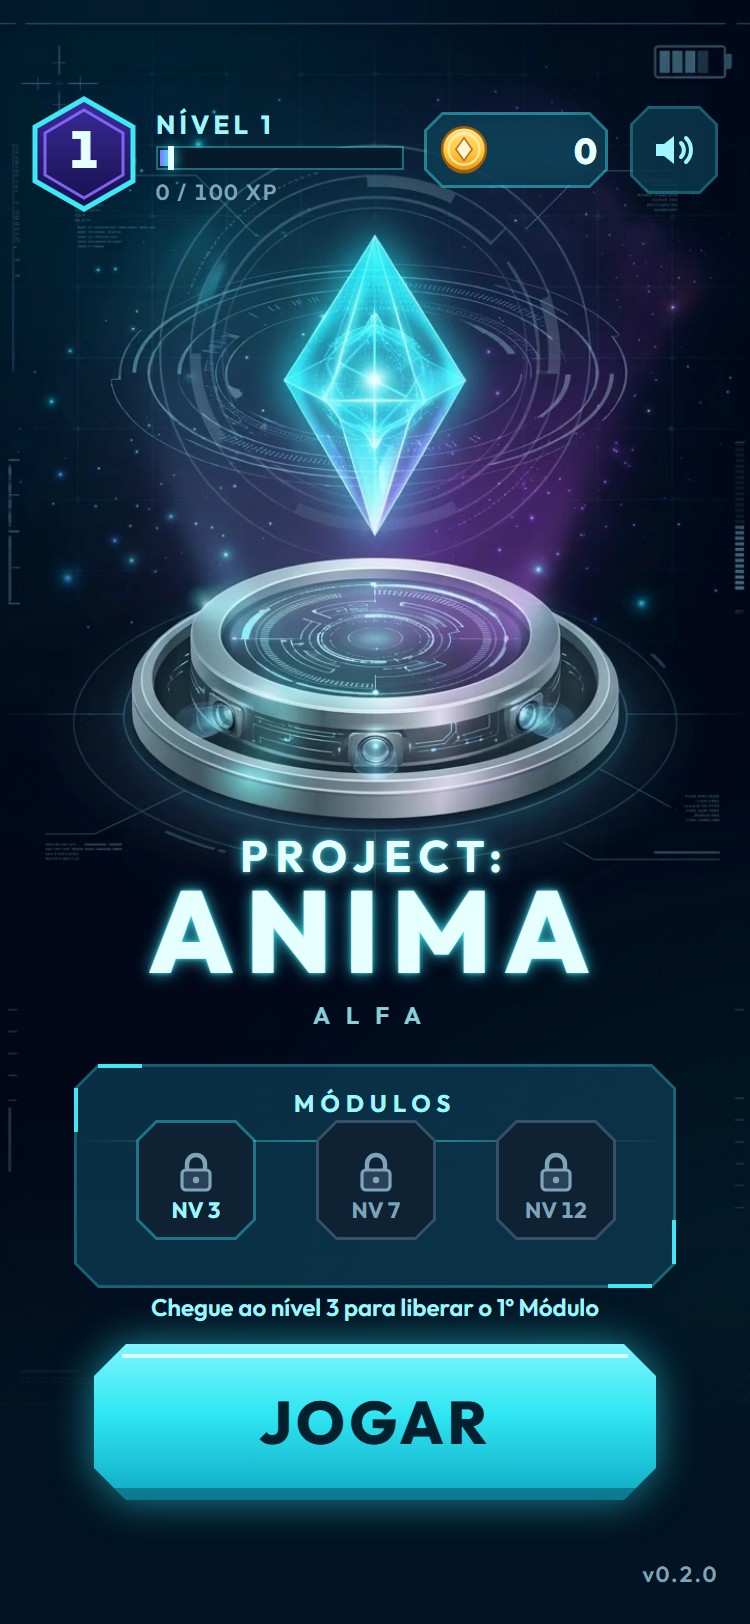
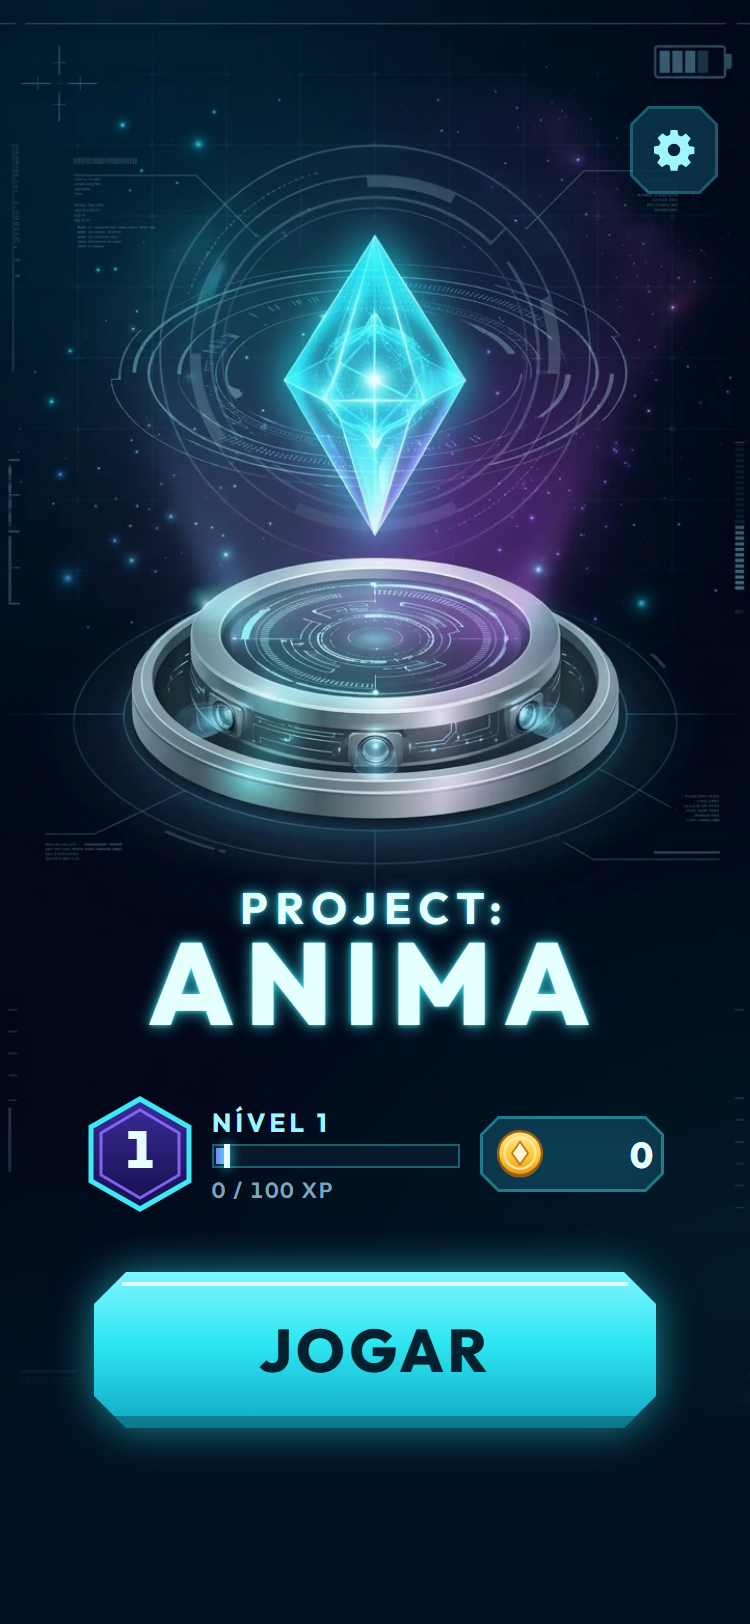
T-180 aprovada (mockups sem Módulos, engrenagem, sem dicas); T-184 revisada: XP só por monstros, derrota 70%, bônus do dia, níveis 1 a 30 (BRF-108, BRF-109)

diff --git a/assets/mockups/_src/mockup_holo.html b/assets/mockups/_src/mockup_holo.html
@@ -64,7 +64,7 @@ html,body{width:375px;height:812px;overflow:hidden;background:var(--bg);font-fam
     <symbol id="hex" viewBox="0 0 52 58"><polygon points="26,1.5 50.5,15.5 50.5,42.5 26,56.5 1.5,42.5 1.5,15.5" fill="url(#gHex)" stroke="#3FE8F5" stroke-width="2.5"/><polygon points="26,7 45.5,18.5 45.5,39.5 26,51 6.5,39.5 6.5,18.5" fill="none" stroke="#8A6CFF" stroke-width="1.5" opacity=".9"/></symbol>
     <symbol id="coin" viewBox="0 0 32 32"><circle cx="16" cy="17" r="13.5" fill="#9A5F0C"/><circle cx="16" cy="15.5" r="13.5" fill="url(#gCoin)" stroke="#9A5F0C" stroke-width="1.5"/><circle cx="16" cy="15.5" r="9.5" fill="none" stroke="#FFF1B8" stroke-width="1.4" opacity=".8"/><path d="M16 8.5 L21 15.5 L16 22.5 L11 15.5Z" fill="#FFF6D6" stroke="#B87410" stroke-width="1"/></symbol>
     <symbol id="xp" viewBox="0 0 32 32"><polygon points="16,2 28.5,9 28.5,23 16,30 3.5,23 3.5,9" fill="url(#gXp)" stroke="#B9A5FF" stroke-width="1.6"/><path d="M16 7 L21.5 16 L16 25 L10.5 16Z" fill="#3FE8F5"/><path d="M16 7 L16 25 L10.5 16Z" fill="#E6FFFF" opacity=".85"/></symbol>
-    <symbol id="spk" viewBox="0 0 24 24"><path d="M3 9h4l5-4v14l-5-4H3z" fill="#9FF6FF"/><path d="M15.5 8.5a5 5 0 0 1 0 7M18 6a8.5 8.5 0 0 1 0 12" fill="none" stroke="#9FF6FF" stroke-width="2" stroke-linecap="round"/></symbol>
+    <symbol id="gear" viewBox="0 0 24 24"><path d="M10.3 2h3.4l.5 2.6 1.6.7 2.2-1.5 2.4 2.4-1.5 2.2.7 1.6 2.6.5v3.4l-2.6.5-.7 1.6 1.5 2.2-2.4 2.4-2.2-1.5-1.6.7-.5 2.6h-3.4l-.5-2.6-1.6-.7-2.2 1.5-2.4-2.4 1.5-2.2-.7-1.6L2 13.7v-3.4l2.6-.5.7-1.6-1.5-2.2 2.4-2.4 2.2 1.5 1.6-.7z" fill="#9FF6FF"/><circle cx="12" cy="12" r="3.6" fill="#06223A" stroke="#9FF6FF" stroke-width="1"/></symbol>
     <symbol id="lock" viewBox="0 0 24 24"><path d="M7.5 11V8a4.5 4.5 0 0 1 9 0v3" fill="none" stroke="#7FA3B8" stroke-width="2.2"/><rect x="5" y="11" width="14" height="10" rx="2" fill="#2A4258" stroke="#7FA3B8" stroke-width="1.6"/><circle cx="12" cy="16" r="1.6" fill="#7FA3B8"/></symbol>
     <symbol id="unlock" viewBox="0 0 24 24"><path d="M7.5 11V7a4.5 4.5 0 0 1 9 0" fill="none" stroke="#3FE8F5" stroke-width="2.2"/><rect x="5" y="11" width="14" height="10" rx="2" fill="#0B4A5E" stroke="#3FE8F5" stroke-width="1.6"/><circle cx="12" cy="16" r="1.6" fill="#E6FFFF"/></symbol>
   </defs>
@@ -73,63 +73,41 @@ html,body{width:375px;height:812px;overflow:hidden;background:var(--bg);font-fam
 <!-- ============ MENU PRINCIPAL (conta nível 4) ============ -->
 <div class="screen" id="menu">
   <div class="bg" style="background-image:url(../../ui/title_bg_tech.webp)"></div>
-  <!-- topo: selo + XP | Moeda | som -->
-  
-  <svg class="abs" style="left:16px;top:48px" width="52" height="58"><use href="#hex"/></svg>
-  <div class="abs num" style="left:16px;top:58px;width:52px;text-align:center;font-weight:800;font-size:26px">4</div>
-  <div class="abs" style="left:78px;top:54px;font-weight:700;font-size:13px;letter-spacing:2px;color:var(--text2)">NÍVEL 4</div>
-  <div class="bar" style="left:78px;top:73px;width:124px"><div class="trk"></div><div class="fil" style="width:74px"></div></div>
-  <div class="abs small num" style="left:78px;top:89px">320 / 500 XP</div>
-  <div class="panel ch glow" style="left:212px;top:56px;width:92px;height:38px;--c:9px"><div class="fill ch" style="--c:8px"></div></div>
-  <svg class="abs" style="left:219px;top:62px" width="26" height="26"><use href="#coin"/></svg>
-  <div class="abs num" style="left:248px;top:64px;width:50px;text-align:right;font-weight:800;font-size:18px">1.250</div>
+  <!-- topo: só a engrenagem (sem ação no M2) -->
   <div class="panel ch" style="left:315px;top:53px;width:44px;height:44px;--c:9px"><div class="fill ch" style="--c:8px"></div></div>
-  <svg class="abs" style="left:325px;top:63px" width="24" height="24"><use href="#spk"/></svg>
-  <!-- logotipo -->
-  <div class="abs txt-glow" style="left:0;right:0;top:414px;text-align:center;font-weight:700;font-size:22px;letter-spacing:4px">PROJECT:</div>
-  <div class="abs txt-glow" style="left:0;right:0;top:436px;text-align:center;font-weight:800;font-size:58px;letter-spacing:6px;line-height:1">ANIMA</div>
-  <div class="abs" style="left:0;right:0;top:500px;text-align:center;font-weight:600;font-size:12px;letter-spacing:8px;color:var(--text2);opacity:.85">ALFA</div>
-  <!-- painel de Módulos -->
-  <div class="panel ch" style="left:37px;top:532px;width:301px;height:112px"><div class="fill ch"></div><div class="brk"></div><div class="scan" style="top:38px"></div>
-    <div class="hdr" style="top:12px">MÓDULOS</div></div>
-  <div class="slot" style="left:68px;top:560px"><div class="panel ch glow" style="inset:0;--c:10px"><div class="fill ch" style="--c:9px;background:rgba(10,60,84,.9)"></div></div>
-    <img src="../../ui/ui_icon_skill_meteor.png" class="abs" style="left:8px;top:8px;width:44px;height:44px"></div>
-  <div class="slot" style="left:158px;top:560px"><div class="panel ch" style="inset:0;--c:10px;background:var(--dis-line)"><div class="fill ch" style="--c:9px;background:var(--dis-fill)"></div></div>
-    <svg class="abs" style="left:18px;top:14px" width="24" height="24"><use href="#lock"/></svg><div class="abs num" style="left:0;right:0;top:38px;text-align:center;font-size:11px;font-weight:700;color:var(--muted)">NV 7</div></div>
-  <div class="slot" style="left:248px;top:560px"><div class="panel ch" style="inset:0;--c:10px;background:var(--dis-line)"><div class="fill ch" style="--c:9px;background:var(--dis-fill)"></div></div>
-    <svg class="abs" style="left:18px;top:14px" width="24" height="24"><use href="#lock"/></svg><div class="abs num" style="left:0;right:0;top:38px;text-align:center;font-size:11px;font-weight:700;color:var(--muted)">NV 12</div></div>
-  <!-- JOGAR -->
-  <div class="glow" style="position:absolute;left:47px;top:672px;width:281px;height:78px"><div class="btn primary ch" style="inset:0;--c:16px">JOGAR</div></div>
-  <div class="abs small num" style="right:16px;bottom:18px">v0.2.0</div>
+  <svg class="abs" style="left:325px;top:63px" width="24" height="24"><use href="#gear"/></svg>
+  <!-- bloco central no terço inferior: logotipo, nível/XP + Moeda, Jogar (sem Módulos, dica de slot, ALFA nem versão) -->
+  <div class="abs txt-glow" style="left:0;right:0;top:440px;text-align:center;font-weight:700;font-size:22px;letter-spacing:4px">PROJECT:</div>
+  <div class="abs txt-glow" style="left:0;right:0;top:462px;text-align:center;font-weight:800;font-size:58px;letter-spacing:6px;line-height:1">ANIMA</div>
+  <svg class="abs" style="left:44px;top:548px" width="52" height="58"><use href="#hex"/></svg>
+  <div class="abs num" style="left:44px;top:558px;width:52px;text-align:center;font-weight:800;font-size:26px">4</div>
+  <div class="abs" style="left:106px;top:553px;font-weight:700;font-size:13px;letter-spacing:2px;color:var(--text2)">NÍVEL 4</div>
+  <div class="bar" style="left:106px;top:572px;width:124px"><div class="trk"></div><div class="fil" style="width:74px"></div></div>
+  <div class="abs small num" style="left:106px;top:588px">320 / 500 XP</div>
+  <div class="panel ch glow" style="left:240px;top:558px;width:92px;height:38px;--c:9px"><div class="fill ch" style="--c:8px"></div></div>
+  <svg class="abs" style="left:247px;top:564px" width="26" height="26"><use href="#coin"/></svg>
+  <div class="abs num" style="left:276px;top:566px;width:50px;text-align:right;font-weight:800;font-size:18px">1.250</div>
+  <div class="glow" style="position:absolute;left:47px;top:636px;width:281px;height:78px"><div class="btn primary ch" style="inset:0;--c:16px">JOGAR</div></div>
 </div>
 
-<!-- ============ MENU PRINCIPAL (conta nível 1, sem Módulo) ============ -->
+<!-- ============ MENU PRINCIPAL (conta nível 1) ============ -->
 <div class="screen" id="menu_lvl1">
   <div class="bg" style="background-image:url(../../ui/title_bg_tech.webp)"></div>
-  <svg class="abs" style="left:16px;top:48px" width="52" height="58"><use href="#hex"/></svg>
-  <div class="abs num" style="left:16px;top:58px;width:52px;text-align:center;font-weight:800;font-size:26px">1</div>
-  <div class="abs" style="left:78px;top:54px;font-weight:700;font-size:13px;letter-spacing:2px;color:var(--text2)">NÍVEL 1</div>
-  <div class="bar" style="left:78px;top:73px;width:124px"><div class="trk"></div><div class="fil" style="width:6px"></div></div>
-  <div class="abs small num" style="left:78px;top:89px">0 / 100 XP</div>
-  <div class="panel ch glow" style="left:212px;top:56px;width:92px;height:38px;--c:9px"><div class="fill ch" style="--c:8px"></div></div>
-  <svg class="abs" style="left:219px;top:62px" width="26" height="26"><use href="#coin"/></svg>
-  <div class="abs num" style="left:248px;top:64px;width:50px;text-align:right;font-weight:800;font-size:18px">0</div>
+  <!-- topo: só a engrenagem (sem ação no M2) -->
   <div class="panel ch" style="left:315px;top:53px;width:44px;height:44px;--c:9px"><div class="fill ch" style="--c:8px"></div></div>
-  <svg class="abs" style="left:325px;top:63px" width="24" height="24"><use href="#spk"/></svg>
-  <div class="abs txt-glow" style="left:0;right:0;top:414px;text-align:center;font-weight:700;font-size:22px;letter-spacing:4px">PROJECT:</div>
-  <div class="abs txt-glow" style="left:0;right:0;top:436px;text-align:center;font-weight:800;font-size:58px;letter-spacing:6px;line-height:1">ANIMA</div>
-  <div class="abs" style="left:0;right:0;top:500px;text-align:center;font-weight:600;font-size:12px;letter-spacing:8px;color:var(--text2);opacity:.85">ALFA</div>
-  <div class="panel ch" style="left:37px;top:532px;width:301px;height:112px"><div class="fill ch"></div><div class="brk"></div><div class="scan" style="top:38px"></div>
-    <div class="hdr" style="top:12px">MÓDULOS</div></div>
-  <div class="slot" style="left:68px;top:560px"><div class="panel ch" style="inset:0;--c:10px;background:var(--line-dim)"><div class="fill ch" style="--c:9px;background:var(--dis-fill)"></div></div>
-    <svg class="abs" style="left:18px;top:14px" width="24" height="24"><use href="#lock"/></svg><div class="abs num" style="left:0;right:0;top:38px;text-align:center;font-size:11px;font-weight:700;color:var(--text2)">NV 3</div></div>
-  <div class="slot" style="left:158px;top:560px"><div class="panel ch" style="inset:0;--c:10px;background:var(--dis-line)"><div class="fill ch" style="--c:9px;background:var(--dis-fill)"></div></div>
-    <svg class="abs" style="left:18px;top:14px" width="24" height="24"><use href="#lock"/></svg><div class="abs num" style="left:0;right:0;top:38px;text-align:center;font-size:11px;font-weight:700;color:var(--muted)">NV 7</div></div>
-  <div class="slot" style="left:248px;top:560px"><div class="panel ch" style="inset:0;--c:10px;background:var(--dis-line)"><div class="fill ch" style="--c:9px;background:var(--dis-fill)"></div></div>
-    <svg class="abs" style="left:18px;top:14px" width="24" height="24"><use href="#lock"/></svg><div class="abs num" style="left:0;right:0;top:38px;text-align:center;font-size:11px;font-weight:700;color:var(--muted)">NV 12</div></div>
-  <div class="abs" style="left:37px;right:37px;top:646px;text-align:center;font-size:12px;font-weight:600;color:var(--text2)">Chegue ao nível 3 para liberar o 1º Módulo</div>
-  <div class="glow" style="position:absolute;left:47px;top:672px;width:281px;height:78px"><div class="btn primary ch" style="inset:0;--c:16px">JOGAR</div></div>
-  <div class="abs small num" style="right:16px;bottom:18px">v0.2.0</div>
+  <svg class="abs" style="left:325px;top:63px" width="24" height="24"><use href="#gear"/></svg>
+  <!-- bloco central no terço inferior: logotipo, nível/XP + Moeda, Jogar (sem Módulos, dica de slot, ALFA nem versão) -->
+  <div class="abs txt-glow" style="left:0;right:0;top:440px;text-align:center;font-weight:700;font-size:22px;letter-spacing:4px">PROJECT:</div>
+  <div class="abs txt-glow" style="left:0;right:0;top:462px;text-align:center;font-weight:800;font-size:58px;letter-spacing:6px;line-height:1">ANIMA</div>
+  <svg class="abs" style="left:44px;top:548px" width="52" height="58"><use href="#hex"/></svg>
+  <div class="abs num" style="left:44px;top:558px;width:52px;text-align:center;font-weight:800;font-size:26px">1</div>
+  <div class="abs" style="left:106px;top:553px;font-weight:700;font-size:13px;letter-spacing:2px;color:var(--text2)">NÍVEL 1</div>
+  <div class="bar" style="left:106px;top:572px;width:124px"><div class="trk"></div><div class="fil" style="width:6px"></div></div>
+  <div class="abs small num" style="left:106px;top:588px">0 / 100 XP</div>
+  <div class="panel ch glow" style="left:240px;top:558px;width:92px;height:38px;--c:9px"><div class="fill ch" style="--c:8px"></div></div>
+  <svg class="abs" style="left:247px;top:564px" width="26" height="26"><use href="#coin"/></svg>
+  <div class="abs num" style="left:276px;top:566px;width:50px;text-align:right;font-weight:800;font-size:18px">0</div>
+  <div class="glow" style="position:absolute;left:47px;top:636px;width:281px;height:78px"><div class="btn primary ch" style="inset:0;--c:16px">JOGAR</div></div>
 </div>
 
 <!-- ============ RESULTADO (vitória + subida de nível + slot 1) ============ -->

diff --git a/docs/arte.md b/docs/arte.md
@@ -177,8 +177,9 @@ Todas as peças da UI agora têm arte 9-patch em `assets/ui/` (`ui_pill_wave`, `
 Vale para o **menu principal e o Resultado do M2** (hangar no M3). A partida segue no cartoon claro (decisão 50). Base: as artes do dono (`title_bg_tech.webp`, `result_tech_bg.webp`): azul-marinho, brilhos ciano, roxo discreto, linhas finas de HUD.
 
 **Mockups** (375×812 @2x; fonte `assets/mockups/_src/mockup_holo.html`, gerar com `bash assets/mockups/_src/render.sh`; pasta fora do `.pck`):
-- [`mockup_holo_menu.png`](../assets/mockups/mockup_holo_menu.png): menu, conta nível 4, slot 1 com Módulo;
-- [`mockup_holo_menu_lvl1.png`](../assets/mockups/mockup_holo_menu_lvl1.png): conta nova (nível 1, 0 Moeda, sem Módulo, dica do nível 3);
+- [`mockup_holo_menu.png`](../assets/mockups/mockup_holo_menu.png): menu, conta nível 4: no topo só a engrenagem; no terço inferior, um bloco único (logotipo → linha "selo + nível/barra de XP | Moeda" → Jogar), sem espaço vazio entre logotipo e Jogar;
+- [`mockup_holo_menu_lvl1.png`](../assets/mockups/mockup_holo_menu_lvl1.png): conta nova (nível 1, 0 Moeda), mesmo layout;
+- **O menu principal não mostra Módulos** (BRF-109): nada de slots, ícones, lista nem dica de slot/desbloqueio; eles vivem no hangar (M3). Também sem "ALFA" e sem rótulo de versão solto. **Layout do menu (375×812):** "PROJECT:" em y 440 e "ANIMA" em 462; linha de nível/Moeda em y 548–606 (selo à esquerda em x 44, pílula da Moeda à direita até x 332, centrada); Jogar 281×78 em y 636 (folga ~22 px abaixo do bloco e ~98 px até a base). O bloco fica ancorado embaixo; a arte de fundo (cristal e plataforma) ocupa a metade de cima;
 - [`mockup_holo_result.png`](../assets/mockups/mockup_holo_result.png): vitória, XP e Moeda ganhos, nível 2 → 3, "Slot 1 liberado";
 - [`mockup_holo_parts.png`](../assets/mockups/mockup_holo_parts.png): estados dos botões, painel, selo, ícones, barra, raridades e paleta.
 
@@ -191,7 +192,7 @@ Vale para o **menu principal e o Resultado do M2** (hangar no M3). A partida seg
 | `holo_line` | `#3FE8F5` (100% / 38% `holo_line_dim`) | molduras, colchetes, varredura, ponta da barra | 12,5:1 no `holo_bg` |
 | `holo_text` | `#E6FFFF` | texto principal e números | 15,5:1 |
 | `holo_text2` | `#9FF6FF` | títulos de painel, rótulos | 13,2:1 |
-| `holo_muted` | `#7FA3B8` | legendas, "320 / 500 XP", versão | 6,0:1 |
+| `holo_muted` | `#7FA3B8` | legendas, "320 / 500 XP" | 6,0:1 |
 | `holo_violet` | `#8A6CFF` (claro `#B9A5FF`) | XP: início do degradê da barra, selo, rótulo "XP" | 7,6:1 (claro) |
 | `gold` | `#FFC93D` (claro `#FFE08A`) | Moeda, "VITÓRIA", aviso de desbloqueio | 10,5:1 |
 | `holo_ink` | `#03202E` | texto do botão primário (ciano) | 11:1 (6:1 pressionado) |
@@ -206,11 +207,12 @@ Vale para o **menu principal e o Resultado do M2** (hangar no M3). A partida seg
 - **Painel:** retângulo de **cantos chanfrados** (12 px a 1x), moldura `holo_line_dim` de 1,5 px, preenchimento `holo_panel` translúcido, **colchetes** `holo_line` de 22×2 px no canto superior esquerdo e inferior direito, título centrado em `holo_text2` com espaçamento 3 e linha de varredura abaixo.
 - **Botão primário** (Jogar, Continuar): ≥ 280×72, chanfro 16, degradê vertical `#7FF5FF` → `#2FE6F2` → `#0FA9C4`, filete branco a 75% no topo, base escura de 6 px, brilho externo ciano a 55%. Texto `holo_ink` 26–30 px. **Pressionado:** degradê um passo mais escuro, desce 3 px, brilho cai para 4 px.
 - **Botão secundário:** moldura ciano 2 px + interior `holo_panel` a 90%, texto `holo_text` 17 px. **Pressionado:** moldura `holo_text2` e interior `#0E5A70`, desce 2 px. **Desabilitado:** tokens `holo_dis_*`, sem brilho.
-- Alvos de toque ≥ 44×44 (som, slots). A arte nunca leva texto (§9.5).
+- Alvos de toque ≥ 44×44 (engrenagem, slots).
+- **Engrenagem (configurações):** botão de ícone 44×44 no canto superior direito, mesmo painel chanfrado da pílula da Moeda (sozinho no topo do menu). **Sem ação no M2** (o toque não faz nada: sem tela, sem toggle); as configurações vêm no M8. A arte nunca leva texto (§9.5).
 - **Barra de XP:** trilho 12 px (14 no Resultado), moldura `holo_line_dim`, fundo `#071A2B`, preenchimento em degradê `holo_violet` → `holo_line` e **ponta clara** `#E6FFFF` de 3 px com brilho. No Resultado, marcas a cada 25%. Números tabulares abaixo, em `holo_muted`.
 - **Selo de nível:** hexágono em pé (52×58 no menu, 64×70 no Resultado), degradê índigo `#3B2C9A` → `#150F4A`, contorno `holo_line` 2,5 px e hexágono interno `holo_violet`; número `holo_text` 800. Na subida de nível, anel tracejado ciano em volta.
 - **Ícone de XP:** hexágono violeta com losango ciano e faceta clara (lembra o cristal, sem copiar o núcleo). **Moeda:** moeda dourada com losango em relevo; **o desenho final é da T-162**, os mockups usam um provisório no mesmo espírito.
-- **Slots de Módulo:** 60×60, chanfro 10. Com Módulo: moldura ciano + brilho; liberado vazio (no Resultado): cadeado aberto ciano; bloqueado: `holo_dis_*` com cadeado e "NV 7"/"NV 12"; o próximo a abrir usa moldura `holo_line_dim` e "NV 3" em `holo_text2`.
+- **Slots de Módulo** (só no Resultado no M2; o resto fica para o hangar, M3): 60×60, chanfro 10. Com Módulo: moldura ciano + brilho; liberado vazio (no Resultado): cadeado aberto ciano; bloqueado: `holo_dis_*` com cadeado e "NV 7"/"NV 12"; o próximo a abrir usa moldura `holo_line_dim` e "NV 3" em `holo_text2`.
 - **Aviso de desbloqueio:** painel com moldura `gold` e brilho dourado, interior escuro quente `#1E1A14` a 88%, título `gold` 22 px.
 - **Molduras por raridade (M3+):** mesma forma chanfrada; comum = borda lisa; rara = + 2 losangos de canto; épica = borda dupla + 4 losangos + brilho interno; lendária = borda dupla + 4 gemas claras + brilho (animação do AG09). Cores do `ui.md`.
 
@@ -224,13 +226,13 @@ Vale para o **menu principal e o Resultado do M2** (hangar no M3). A partida seg
 | Botão primário / secundário | 26–30 / 17, 800, espaçamento 2 | `holo_ink` / `holo_text` |
 | Título de painel, "NÍVEL 4" | 12–13, 700, espaçamento 3 | `holo_text2` |
 | Texto corrido | 12, 600 | `holo_text`/`holo_text2` |
-| Legenda e versão | 11, 600 (mínimo absoluto) | `holo_muted` |
+| Legenda | 11, 600 (mínimo absoluto) | `holo_muted` |
 
 Sem contorno escuro grosso (é do cartoon); o brilho só em títulos e números de destaque.
 
 ### 11.4 Animações baratas (só `Tween` de posição, escala e `modulate`)
 
-- **Pulsar:** Jogar escala 1 → 1,03 e brilho 60% → 100% em 1,6 s, em laço; o slot "NV 3" pisca de leve quando falta 1 nível.
+- **Pulsar:** Jogar escala 1 → 1,03 e brilho 60% → 100% em 1,6 s, em laço.
 - **Varredura:** sprite de linha (`ui_holo_scanline`) desce pelo painel a cada 4 s, alfa 0,5.
 - **Contagem:** XP e Moeda contam de 0 ao valor em 0,8 s (ease-out); depois a barra enche em 0,6 s; ao completar, flash branco de 0,1 s, selo "pula" (1,25 → 1 em 0,25 s), anel gira e some em 0,6 s; o aviso do slot entra deslizando (0,3 s).
 - Tocar a tela pula a sequência para o fim.
@@ -242,7 +244,7 @@ Sem contorno escuro grosso (é do cartoon); o brilho só em títulos e números 
 - Um único fundo por tela (`title_bg_tech.webp` / `result_tech_bg.webp`, Lossy 0,85); nada de fundo em tela cheia novo.
 - Alvo: ≤ 40 draw calls no menu; brilho de texto (sombra) só nos títulos; translucidez só em painéis (pouca sobreposição).
 - Arte nova da T-189 ≤ ~300 KB no `.pck`.
-- **Altura curta (375×616):** topo ancorado na área segura, Jogar ancorado embaixo (24 px + área segura), Módulos logo acima; o fundo segue a escala do shell; abaixo de 700 px o "ALFA" some e "ANIMA" cai para 44 px.
+- **Altura curta (375×616):** engrenagem ancorada na área segura; o bloco logotipo + nível/Moeda + Jogar fica junto, ancorado embaixo (Jogar a 24 px + área segura); o fundo segue a escala do shell; abaixo de 700 px "ANIMA" cai para 44 px.
 
 ### 11.6 Peças da T-189 (PNG 2x, `assets/ui/`; margens 9-patch em px 2x: esq/dir/topo/base)
 
@@ -250,7 +252,7 @@ Sem contorno escuro grosso (é do cartoon); o brilho só em títulos e números 
 |---|---|---|---|
 | `ui_holo_panel.png` | 192×192 | 72/72/72/72 | moldura + preenchimento + colchetes nos cantos |
 | `ui_holo_panel_gold.png` | 192×192 | 72/72/72/72 | aviso de desbloqueio (brilho dourado incluído, +16 de margem) |
-| `ui_holo_pill.png` | 96×64 | 20/20/20/20 | Moeda e botão de ícone (som) |
+| `ui_holo_pill.png` | 96×64 | 20/20/20/20 | Moeda e botão de ícone (engrenagem) |
 | `ui_holo_btn_primary_normal.png` / `_pressed.png` | 192×160 | 40/40/40/48 | brilho pintado com 16 px de margem (`expand_margin` 8 a 1x) |
 | `ui_holo_btn_secondary_normal.png` / `_pressed.png` / `_disabled.png` | 128×96 | 24/24/24/24 | |
 | `ui_holo_bar_track.png` | 64×32 | 8/8/8/8 | |
@@ -258,9 +260,9 @@ Sem contorno escuro grosso (é do cartoon); o brilho só em títulos e números 
 | `ui_holo_bar_tip.png` | 16×40 | — | ponta clara com brilho |
 | `ui_holo_level_badge.png` | 128×144 | — | selo sem número |
 | `ui_holo_level_ring.png` | 192×192 | — | anel tracejado da subida de nível |
-| `ui_holo_slot_ready.png` / `_locked.png` / `_next.png` | 128×128 | — | slots de Módulo |
+| `ui_holo_slot_ready.png` | 128×128 | — | slot liberado do aviso do Resultado (`_locked`/`_next` ficam para o hangar, M3) |
 | `ui_icon_xp.png` | 64×64 | — | |
-| `ui_icon_sound_on.png` / `_off.png` | 48×48 | — | |
+| `ui_icon_settings.png` | 48×48 | — | engrenagem `holo_text2`; sem ação no M2 (configurações no M8) |
 | `ui_icon_lock_holo.png` / `ui_icon_unlock_holo.png` | 64×64 | — | |
 | `ui_holo_scanline.png` | 256×4 | 64/64/0/0 | varredura |
 | `ui_holo_glow.png` | 128×128 | — | brilho radial aditivo |

diff --git a/docs/economia.md b/docs/economia.md
@@ -1,61 +1,91 @@
-# Economia do M2: XP, Moeda e níveis (AG04, BRF-106)
+# Economia do M2: XP, Moeda e níveis (AG04, BRF-106 e BRF-108)
 
-> Dados em `data/meta/progression_m2.tres` e `data/meta/rewards_m2.tres` (Resources `ProgressionData` e `RewardData`, em `src/meta/`). Lógica de cálculo: T-186. **Nada depende do tempo** (decisão 59): só monstros derrotados, ondas e resultado. Partículas não entram no meta. Sem gasto de Moeda no M2 (1º gasto no M4).
+> Dados em `data/meta/progression_m2.tres` e `data/meta/rewards_m2.tres` (Resources `ProgressionData` e `RewardData`, em `src/meta/`). Lógica de cálculo: T-186. **Nada depende do tempo** (decisão 59). Partículas não entram no meta. Sem gasto de Moeda no M2 (1º gasto no M4).
 
 ## Recompensas por partida
 
-`total = Σ(kills × valor do tipo) + ondas concluídas × bônus de onda (+ bônus de vitória)`; na **derrota** o total é multiplicado por `defeat_multiplier` = 0,8 (paga menos, mas paga). Arredondar para inteiro.
+**XP e Moeda vêm só dos monstros derrotados** (chefe incluso). Sem bônus por onda nem de vitória.
+`total = round(Σ kills × valor do tipo)`; na **derrota** o total é multiplicado por `defeat_multiplier` = **0,7**. Arredondar só no total (valores por monstro podem ser fracionários).
 
-| Fonte | XP | Moeda |
+| Monstro | XP | Moeda |
 |---|---|---|
-| runner | 2 | 1 |
-| swarm (por membro) | 1 | 1 |
-| shooter | 4 | 3 |
-| tank | 6 | 4 |
-| chefe (boss_warden) | 60 | 40 |
-| onda concluída | 5 | 3 |
-| bônus de vitória | 40 | 50 |
+| runner | 1 | 1 |
+| swarm (por membro) | 0,5 | 0,5 |
+| shooter | 2 | 3 |
+| tank | 2 | 3 |
+| chefe (boss_warden) | 20 | 40 |
 
-A "variação por partida" da Moeda vem do desempenho (quantos monstros e ondas), sem sorteio.
+Fase 1 inteira (92 runners, ~98 membros de swarm, 7 shooters, 10 tanks, 1 chefe): **~195 XP / ~232 Moeda**.
 
-## Curva de XP (nível N para N+1)
-
-| N→N+1 | 1→2 | 2→3 | 3→4 | 4→5 | 5→6 | 6→7 | 7→8 | 8→9 | 9→10 | 10→11 | 11→12 | 12→13 | 13→14 | 14→15 |
-|---|---|---|---|---|---|---|---|---|---|---|---|---|---|---|
-| XP | 40 | 60 | 120 | 190 | 300 | 520 | 700 | 850 | 1000 | 1100 | 1250 | 1400 | 1550 | 1700 |
-| Acumulado | 40 | 100 | 220 | 410 | 710 | 1230 | 1930 | 2780 | 3780 | 4880 | 6130 | 7530 | 9080 | 10780 |
-
-Slots: nível 3, 7 e 12 (`slot_unlock_levels`). Nível máximo no M2: 15.
-
-## O que uma partida rende (fase 1, calculado de `stage_01.tres`)
-
-Fase 1 inteira: 92 runners, ~98 membros de swarm (15 grupos × 6,5), 7 shooters, 10 tanks, 1 chefe.
-
-| Partida | XP | Moeda |
+| Partida (fase 1) | XP | Moeda |
 |---|---|---|
-| Derrota na onda 3 (ondas 1 e 2 concluídas, onda 3 toda morta) | ~52 | ~29 |
-| Derrota na onda 6 (~metade do XP da fase) | ~190 | ~120 |
-| Vitória (10 ondas + chefe) | ~520 | ~371 |
+| Derrota na onda 3 (ondas 1 a 3 mortas: 27 / 27 bruto) | ~19 | ~19 |
+| Derrota na onda 6 (ondas 1 a 6 mortas: 83 / 86 bruto) | ~58 | ~60 |
+| Vitória (10 ondas + chefe) | ~195 | ~232 |
+| Vitória com bônus do dia | ~295 | ~347 |
 
-Vitória: kills 430 XP / 291 Moeda + ondas 50 / 30 + bônus 40 / 50.
+## Bônus da primeira vitória do dia
+
+- **Valor:** +100 XP e +115 Moeda (~50% da recompensa de uma vitória completa). Pago só em **vitória** (chefe derrotado), uma vez por dia, somado ao total (não sofre multiplicador).
+- **Dia:** data **local** do aparelho em `YYYY-MM-DD`. Vira à meia-noite local.
+- **Campo:** `PlayerProfile.last_first_win_date: String`, vazio = nunca. Paga se `hoje != last_first_win_date`; depois grava `hoje`. Entra na T-186 (campo e lógica).
+- **Risco (sem defesa agora):** o save e o relógio são manipuláveis. Adiantar/atrasar o relógio ou editar o save repete o bônus (ganho limitado a +100 XP e +115 Moeda por repetição). Relógio atrasado para uma data anterior ao `last_first_win_date` não deve pagar (regra: pagar só se `hoje > last_first_win_date`). Defesa real exige data do servidor (backend, depois).
+
+## Curva de XP (nível N para N+1, teto 30)
+
+Custo por nível crescente, sem degraus (passo de +30 a +60 por nível).
+
+| N→N+1 | XP para subir | Acumulado |
+|---|---|---|
+| 1→2 | 50 | 50 |
+| 2→3 | 100 | 150 |
+| 3→4 | 130 | 280 |
+| 4→5 | 170 | 450 |
+| 5→6 | 220 | 670 |
+| 6→7 | 280 | 950 |
+| 7→8 | 320 | 1270 |
+| 8→9 | 360 | 1630 |
+| 9→10 | 410 | 2040 |
+| 10→11 | 460 | 2500 |
+| 11→12 | 500 | 3000 |
+| 12→13 | 560 | 3560 |
+| 13→14 | 600 | 4160 |
+| 14→15 | 640 | 4800 |
+| 15→16 | 680 | 5480 |
+| 16→17 | 720 | 6200 |
+| 17→18 | 760 | 6960 |
+| 18→19 | 800 | 7760 |
+| 19→20 | 840 | 8600 |
+| 20→21 | 900 | 9500 |
+| 21→22 | 950 | 10450 |
+| 22→23 | 1000 | 11450 |
+| 23→24 | 1040 | 12490 |
+| 24→25 | 1090 | 13580 |
+| 25→26 | 1140 | 14720 |
+| 26→27 | 1190 | 15910 |
+| 27→28 | 1240 | 17150 |
+| 28→29 | 1290 | 18440 |
+| 29→30 | 1340 | 19780 |
+
+Slots: nível 3, 7 e 12 (`slot_unlock_levels`).
 
 ## Metas de partidas por nível
 
-Premissa de jogador: partidas 1–2 caem na onda ~3; 3–8 chegam à onda 6–9 (média ~200 XP); da 9 em diante ~70% de vitórias (média ~450 XP).
+Modelo de XP médio por partida: P1 a P4 = derrotas nas ondas 3, 4, 6 e 7 (19, 31, 58, 75; acumulado 183); P5 a P20 ~120 (derrotas nas ondas 8 e 9 e as primeiras vitórias, com bônus do dia); P21 em diante ~160 (~55% de vitórias de 195, resto derrotas ~100, mais o bônus diário diluído).
 
 | Marco | Acumulado | Partidas |
 |---|---|---|
-| Nível 3 (slot 1) | 100 | ~2 |
-| Nível 7 (slot 2) | 1230 | ~8 (104 + 6×200 = 1304) |
-| Nível 12 (slot 3) | 6130 | ~19–20 (1304 + 11×450 ≈ 6250) |
-| Nível 15 | 10780 | ~30 |
+| Nível 3 (slot 1) | 150 | **4** (3 derrotas somam 108, a 4ª passa de 150; com a 1ª vitória na 4ª também) |
+| Nível 7 (slot 2) | 950 | ~11 |
+| Nível 12 (slot 3) | 3000 | ~26 |
+| Nível 20 | 8600 | ~61 |
+| Nível 30 | 19780 | ~131 |
 
-Justificativa: a proposta do briefing (2, 8, 20) se manteve; o slot 1 chega rápido para o jogador ter a primeira skill ainda na primeira sessão, e o ritmo desacelera conforme a vitória se torna comum. O dono pode mexer só nos números do `.tres`.
+**Justificativa do nível 30:** 131 partidas a 3 a 5 por dia = 26 a 44 dias (~4 a 6 semanas, 4/dia ≈ 33 dias). Slot 1 na primeira sessão de ~4 partidas; slot 2 em 2 a 3 dias; slot 3 em ~1 semana; depois o ritmo desacelera. Só os números do `.tres` precisam mudar para reajustar.
 
 ## Perguntas em aberto para o dono
 
-1. Bônus de primeira vitória de cada fase (XP/Moeda extra)? Sugestão: +100 XP, +100 Moeda.
-2. Multiplicador de anúncio (rewarded ad dobra a Moeda): fica para o M12+; confirmar x2 e se vale para XP.
-3. A derrota deve pagar 80% ou outro percentual? E o chefe derrotado numa derrota (não ocorre hoje) conta?
-4. Fases futuras: escalar os valores por fase ou manter o mesmo peso por tipo de monstro?
-5. Aceita a progressão de nível passar de ~30 partidas até o 15 no M2, ou prefere teto menor?
+1. Fases futuras: escalar os valores por fase ou manter o mesmo peso por tipo de monstro?
+2. O bônus diário deve valer também em fases já vencidas, ou só em qualquer vitória (como está)?
+
+> Multiplicador de anúncio (rewarded ad): fora do escopo agora; nota M12+.

diff --git a/docs/backlog.md b/docs/backlog.md
@@ -92,17 +92,17 @@
 | T-177 | Mira do meteoro: API de alvo manual e prévia do raio; chefe lançado dentro do alcance | M1 | AG01 | feita |
 | T-178 | Arrastar do botão do Módulo para mirar (toque/mouse), segurar 1 + clique no PC | M1 | AG02 | feita |
 | T-179 | Splash e tela de título no estilo holográfico/tecnológico (arte do Gemini como base; texto, barra e brilhos vivos) | M1 | AG02 + AG08 | feita |
-| T-180 | **(1ª do M2)** Guia visual "HUD holográfico" para menus + mockups do menu principal e do Resultado com recompensa | M2 | AG08 | feita (aguarda aprovação dos mockups) |
+| T-180 | **(1ª do M2)** Guia visual "HUD holográfico" para menus + mockups do menu principal e do Resultado com recompensa | M2 | AG08 | feita (aprovada pelo dono em 2026-11-06) |
 | T-181 | Ícones do app (iPhone, PWA e favicon) na nova identidade tecnológica da splash e do menu | M1 | AG08 + AG10 | feita (BRF-084; falta o dono reinstalar o atalho no iOS) |
 | T-182 | Áudio básico: música de entrada (título) e som do tiro básico, com volume salvo e respeitando o 1º toque na web | M2 | AG11 | a fazer |
 | T-183 | Fechar o M1 como v0.1.0: versão `0.1.0` no jogo e tag `v0.1.0`, sem branch (decisão 55; quando o dono pedir) | M1 | AG00 + AG10 | feita (tag v0.1.0 em bc638a3, 2026-11-06) |
-| T-184 | Economia do M2: curva de XP (níveis 1 a 15), XP e Moeda por partida (por monstros derrotados e ondas, nunca pelo tempo; decisão 59), dados em `.tres` e `docs/economia.md` | M2 | AG04 | feita |
+| T-184 | Economia do M2: curva de XP (níveis 1 a 30), XP e Moeda por partida (por monstros derrotados e ondas, nunca pelo tempo; decisão 59), dados em `.tres` e `docs/economia.md` | M2 | AG04 | revisão em curso (BRF-108: sem bônus fixos, derrota 70%, bônus de 1ª vitória do dia, níveis 1 a 30, semanas até o 30) |
 | T-185 | Save local: autoload `Backend` (interface) + `LocalBackend` em `user://` com versão, migração e recuperação; ADR | M2 | AG05 + AG07 | feita |
 | T-186 | Lógica pura do meta em `src/meta/`: recompensa do `MatchResult`, XP → nível, slots liberados; testes GUT | M2 | AG04 | a fazer |
 | T-187 | Fluxo de cenas com menu: Título → Menu → Partida → Resultado → Menu; aplica a recompensa e salva | M2 | AG07 | a fazer |
 | T-188 | Partida monta os slots pelo nível da conta (`MatchConfig`); conta sem Módulo joga só com ataque básico | M2 | AG01 | a fazer |
-| T-189 | Arte do menu holográfico: painéis, botões, barra de XP, selo de nível, ícone de XP | M2 | AG08 | a fazer |
-| T-190 | Tela do menu principal: Jogar, nível e barra de XP, saldo de Moeda, som liga/desliga | M2 | AG02 | a fazer |
+| T-189 | Arte do menu holográfico: painéis, botões, barra de XP, selo de nível, ícone de XP | M2 | AG08 | em andamento (BRF-110) |
+| T-190 | Tela do menu principal: Jogar, nível e barra de XP, saldo de Moeda e ícone de configurações (engrenagem) sem ação até o M8; sem Módulos na tela | M2 | AG02 | a fazer |
 | T-191 | Resultado com recompensa: XP e Moeda animados, barra enchendo, subida de nível e aviso de slot liberado | M2 | AG02 + AG09 | a fazer |
 | T-192 | HUD: slots bloqueados mostram o nível que os libera | M2 | AG02 | a fazer |
 | T-193 | Debug do meta: zerar save e dar XP/Moeda pelo overlay `?debug=1`; meta no log da partida | M2 | AG02 + AG05 | a fazer |
@@ -651,7 +651,7 @@
 
 ### T-184 — Economia do M2
 - **Marco:** M2 · **Dono:** AG04 · **Depende de:** decisões 25 e 40
-- **Pronto quando:** `docs/economia.md` com a curva de XP dos níveis 1 a 15 (slots nos níveis 3, 7 e 12), XP e Moeda por partida (vitória, derrota, onda alcançada, chefe), sem gasto de Moeda no M2 (o 1º gasto é no M4); valores em `data/meta/*.tres`, prontos para o Remote Config.
+- **Pronto quando:** `docs/economia.md` com a curva de XP dos níveis 1 a 30 (slots nos níveis 3, 7 e 12), XP e Moeda por partida (vitória, derrota, onda alcançada, chefe), sem gasto de Moeda no M2 (o 1º gasto é no M4); valores em `data/meta/*.tres`, prontos para o Remote Config.
 
 ### T-185 — Save local
 - **Marco:** M2 · **Dono:** AG05 + AG07 · **Depende de:** —

diff --git a/docs/briefings/BRF-108_AG04_economia-revisao.md b/docs/briefings/BRF-108_AG04_economia-revisao.md
@@ -1,0 +1,11 @@
+# BRF-108 — AG04 — T-184 revisão da economia (feedback do dono)
+**Leia:** `docs/economia.md` (sua entrega anterior), `data/meta/*.tres`, `src/meta/progression_data.gd`, `src/meta/reward_data.gd`, `tests/unit/meta/test_economy_data.gd`, `src/meta/player_profile.gd` (AG05; só o `MAX_LEVEL`), decisões 25, 40 e 59. **Regra:** respostas curtas; sem commit/push/branches.
+**Feedback do dono (obrigatório, nesta ordem):**
+1. **XP e Moeda vêm só dos monstros derrotados.** Remova os bônus fixos **por onda concluída** e o **bônus fixo de vitória**: a recompensa de uma partida é a **soma das mortes** (XP e Moeda por tipo de monstro, chefe incluso), e nada além disso. A derrota rende **70%** do total (multiplicador 0,7 sobre a soma).
+2. **Bônus de primeira vitória do dia:** uma única vez por dia (data local do aparelho), só em **vitória** (chefe derrotado), somando XP e Moeda extras (proponha o valor como fração da recompensa típica de uma vitória, ex. +50% do XP e da Moeda de uma vitória média, e justifique). Defina como o dia vira (data local, `YYYY-MM-DD`), o que fazer com relógio adiantado/atrasado (o save é manipulável; não precisa de defesa agora, só registre o risco) e o campo necessário no perfil (`last_first_win_date`: String, vazio = nunca). **Só o design e o dado**; o campo no `PlayerProfile` e a lógica entram na T-186.
+3. **Escala dos números:** uma partida completa **não pode** render centenas de XP (a de 520 XP foi vista como absurda). Reescale tudo para números **pequenos e legíveis**: XP por monstro de 1 a poucos pontos (ex. runner 1, swarm 1 por membro, shooter 2, tank 3, chefe 20), de modo que uma **vitória completa** renda algo na casa de **100 a 200 XP** no máximo e a **curva de níveis** seja coerente com isso. Moeda no mesmo espírito (sem exagero; vitória algumas centenas no máximo).
+4. **Curva de XP mais acentuada no começo e mais longa no fim:** o nível 3 deve levar cerca de **4 partidas** de um jogador comum (mistura de derrotas parciais e a 1ª vitória), **não 2**. Os slots continuam no nível 3, 7 e 12. **Teto no nível 30** (antes 15), e **chegar ao 30 deve levar semanas** (suponha 3 a 5 partidas por dia: alvo de ~4 a 6 semanas ≈ 100 a 150 partidas; justifique). Dê metas de partidas para os níveis 3, 7, 12, 20 e 30, uma curva com crescimento claro (ex. custo por nível crescente, sem degraus estranhos) e uma tabela completa dos 30 níveis (XP para subir e acumulado).
+5. **Multiplicador de anúncio: fora**; não considere agora (remova a menção ou deixe só como nota "M12+").
+**Também:** atualize `data/meta/progression_m2.tres` e `rewards_m2.tres`, as Resources em `src/meta/` (`validate()`: 30 níveis, valores > 0, curva monotônica; o multiplicador de derrota 0,7; o campo do bônus diário) e os testes. Ajuste o `MAX_LEVEL` do `src/meta/player_profile.gd` de 100 para **30** (única edição permitida ali) e os testes do `tests/unit/backend/` que dependam dele. Atualize em `docs/economia.md` as **perguntas em aberto** (as respondidas saem) e em `docs/backlog.md` o texto da T-184/T-186/T-195 onde diz "níveis 1 a 15" (agora 1 a 30).
+**Arquivos permitidos:** `docs/economia.md`, `docs/meta.md`, `docs/backlog.md` (só esses textos de nível), `data/meta/`, `src/meta/progression_data.gd`, `src/meta/reward_data.gd`, `src/meta/player_profile.gd` (só `MAX_LEVEL`), `tests/unit/meta/`, `tests/unit/backend/` (só ajuste do `MAX_LEVEL`). **Proibido:** `src/match/`, `src/ui/`, `project.godot`.
+**Entrega:** até 6 linhas, com: valores por monstro, recompensa típica (derrota na onda 3, derrota na onda 6, vitória, vitória com bônus do dia), partidas por marco (3, 7, 12, 20, 30). GUT completo passando (segundo plano, ~5 min).

diff --git a/docs/briefings/BRF-110_AG08_arte-menu-holografico.md b/docs/briefings/BRF-110_AG08_arte-menu-holografico.md
@@ -1,0 +1,6 @@
+# BRF-110 — AG08 — T-189 Arte do menu holográfico
+**Leia:** `docs/agentes/AG08_arte.md`, `docs/arte.md` §11 (guia aprovado; §11.6 é a lista das peças), mockups aprovados `assets/mockups/mockup_holo_menu.png`, `mockup_holo_menu_lvl1.png`, `mockup_holo_result.png`, `mockup_holo_parts.png` e o HTML `assets/mockups/_src/mockup_holo.html` (fonte dos valores), `assets/ui/README.md`, `assets/ui/_src/` (como as peças atuais são geradas), `assets/LICENSES.md`. **Regra:** respostas curtas; sem commit/push/branches.
+**Aprovado pelo dono:** o guia e os 3 mockups (menu sem Módulos, sem dica de slot, sem "ALFA"/versão; engrenagem sem ação; Jogar junto do logotipo; Resultado com recompensa e "Slot 1 liberado").
+**Fazer:** produza **todas as peças da §11.6** em `assets/ui/` (PNG 2x, fundo transparente, nomes e canvases da tabela; margens 9-patch documentadas), fiéis aos mockups e à paleta `holo_*`: painel (+dourado de desbloqueio), pílula, botões primário/secundário (normal/pressed/disabled), barra de XP (trilho, enchimento, ponta), selo de nível e anel de subida, slot liberado, ícones de XP, engrenagem, cadeado/destravado, varredura e brilho radial. **Não** inclua a Moeda (T-162, fora desta tarefa; no mockup é provisória) nem as peças do hangar. Regras de desempenho do guia (9-patch, poucos draw calls, sem blur pesado; peso total das peças ≤ ~300 KB, cada PNG o menor possível, paleta indexada onde não perder qualidade). Gere por script (estenda `assets/ui/_src/gen_ui.py` ou crie `gen_ui_holo.py` com o mesmo padrão, sem alterar byte a byte as peças antigas). Atualize `assets/ui/README.md` (arquivo, tamanho, margens 9-patch, uso e o que o AG02 deve fazer: `StyleBoxTexture`, `expand_margin`, `modulate`) e `assets/LICENSES.md` (pontual). **Validação:** folha de contato com as peças montadas (menu nível 4, menu nível 1 e Resultado) sobre o fundo holográfico (`assets/backgrounds/result_tech_bg*.webp` e o da splash) em 375x812, comparada com os mockups; confira legibilidade a 1x e o `godot --headless --import` sem erro (apague `.import` de pastas `.gdignore`/docs que não devam ficar).
+**Arquivos permitidos:** `assets/ui/`, `assets/LICENSES.md`, `docs/arte.md` (só nota de status da §11.6). **Proibido:** `src/`, `web/`, `project.godot`.
+**Entrega:** até 5 linhas: lista das peças, peso total, o que o AG02 (T-190, T-191) precisa saber.

diff --git a/docs/briefings/BRF-109_AG08_mockups-revisao.md b/docs/briefings/BRF-109_AG08_mockups-revisao.md
@@ -1,0 +1,8 @@
+# BRF-109 — AG08 — T-180 revisão dos mockups (feedback do dono)
+**Leia:** `docs/arte.md` §11 (sua entrega), `assets/mockups/_src/mockup_holo.html` e `render.sh`, mockups `assets/mockups/mockup_holo_*.png`. **Regra:** respostas curtas; sem commit/push/branches.
+**Feedback do dono:** os mockups ficaram muito bonitos (em especial o Resultado). Duas correções:
+1. **O menu principal não mostra Módulos.** Remova qualquer ícone/área/lista de Módulo (equipados, slots de skill, "1º Módulo entra na próxima partida") da **tela inicial/menu principal** (os Módulos vivem no hangar, M3). Mantenha o aviso de progressão se couber sem citar Módulo (ex. nível, barra de XP, "Chegue ao nível 3 para desbloquear um slot" pode ficar, ou troque por algo neutro). O **Resultado** pode continuar avisando "Slot 1 liberado" (é o que o dono gostou).
+2. **Troque o ícone de volume/som por um ícone de configurações (engrenagem)** no menu principal. Nesta fase **não tem comportamento**: o toque não faz nada (sem tela, sem toggle). Atualize a §11 de `docs/arte.md` (peça de ícone de engrenagem em vez de som; nota "sem ação no M2; configurações vêm no M8") e a lista de peças da T-189 (§11.6).
+Regere os PNGs (`render.sh`), mantendo os nomes e o estilo; revise `mockup_holo_menu.png` e `mockup_holo_menu_lvl1.png` (e a folha `mockup_holo_parts.png` se mostrar o ícone de som); o `mockup_holo_result.png` só muda se tiver o ícone de som ou Módulos fora do aviso do slot.
+**Arquivos permitidos:** `docs/arte.md`, `assets/mockups/`. **Proibido:** `src/`, `web/`, `project.godot`.
+**Entrega:** até 4 linhas.
